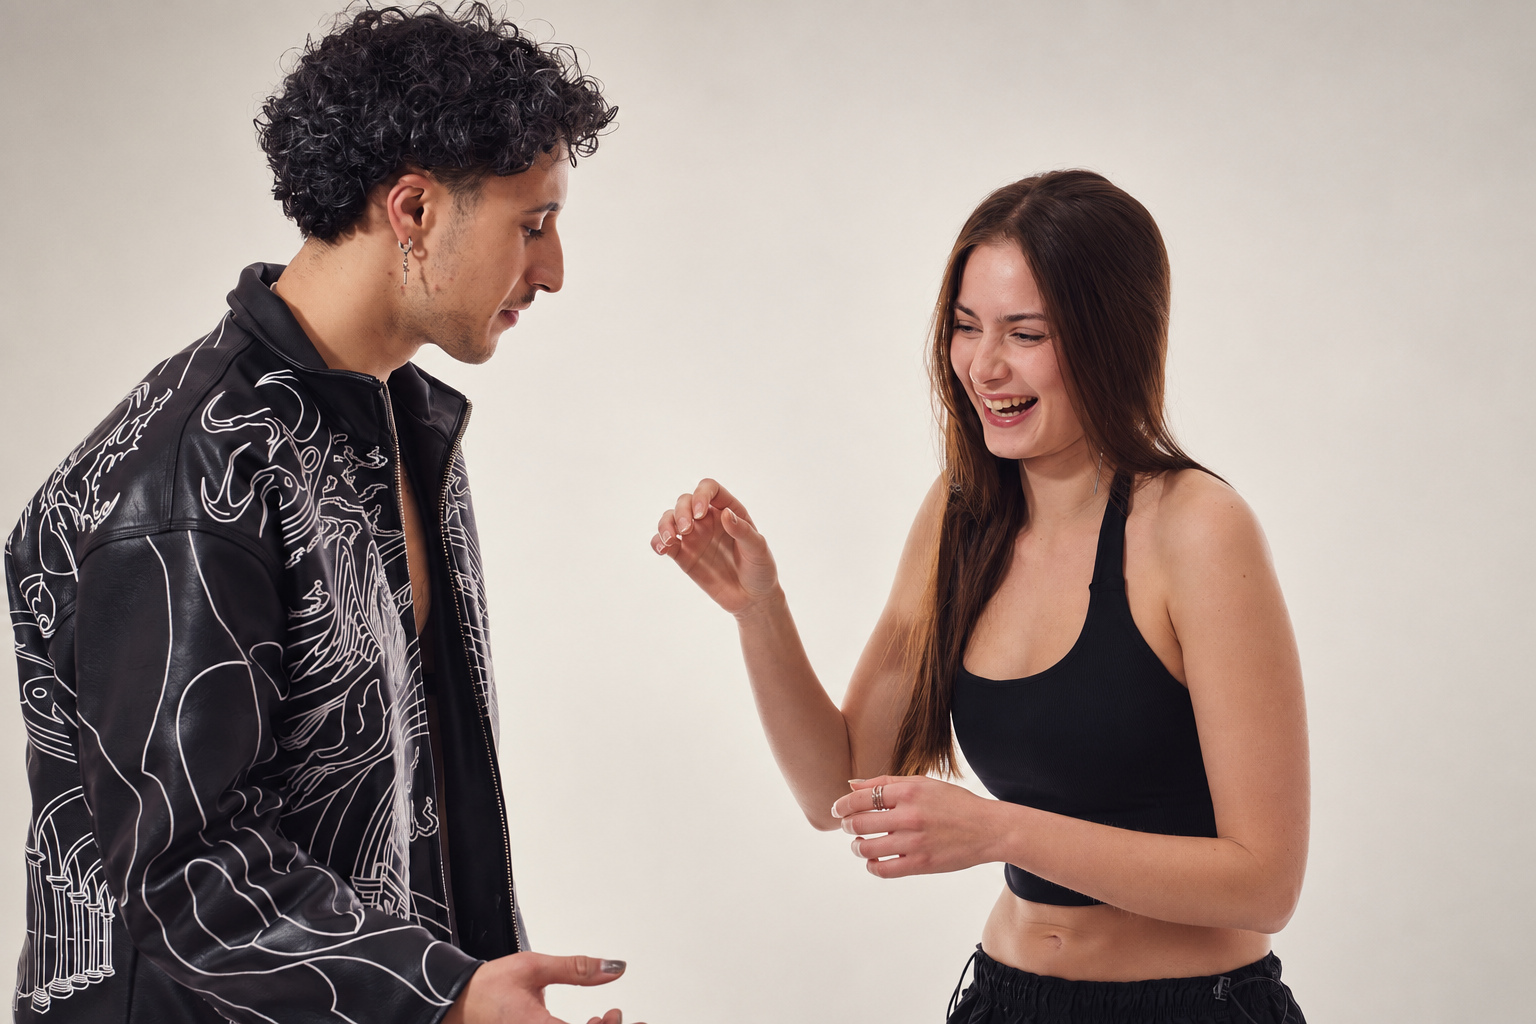
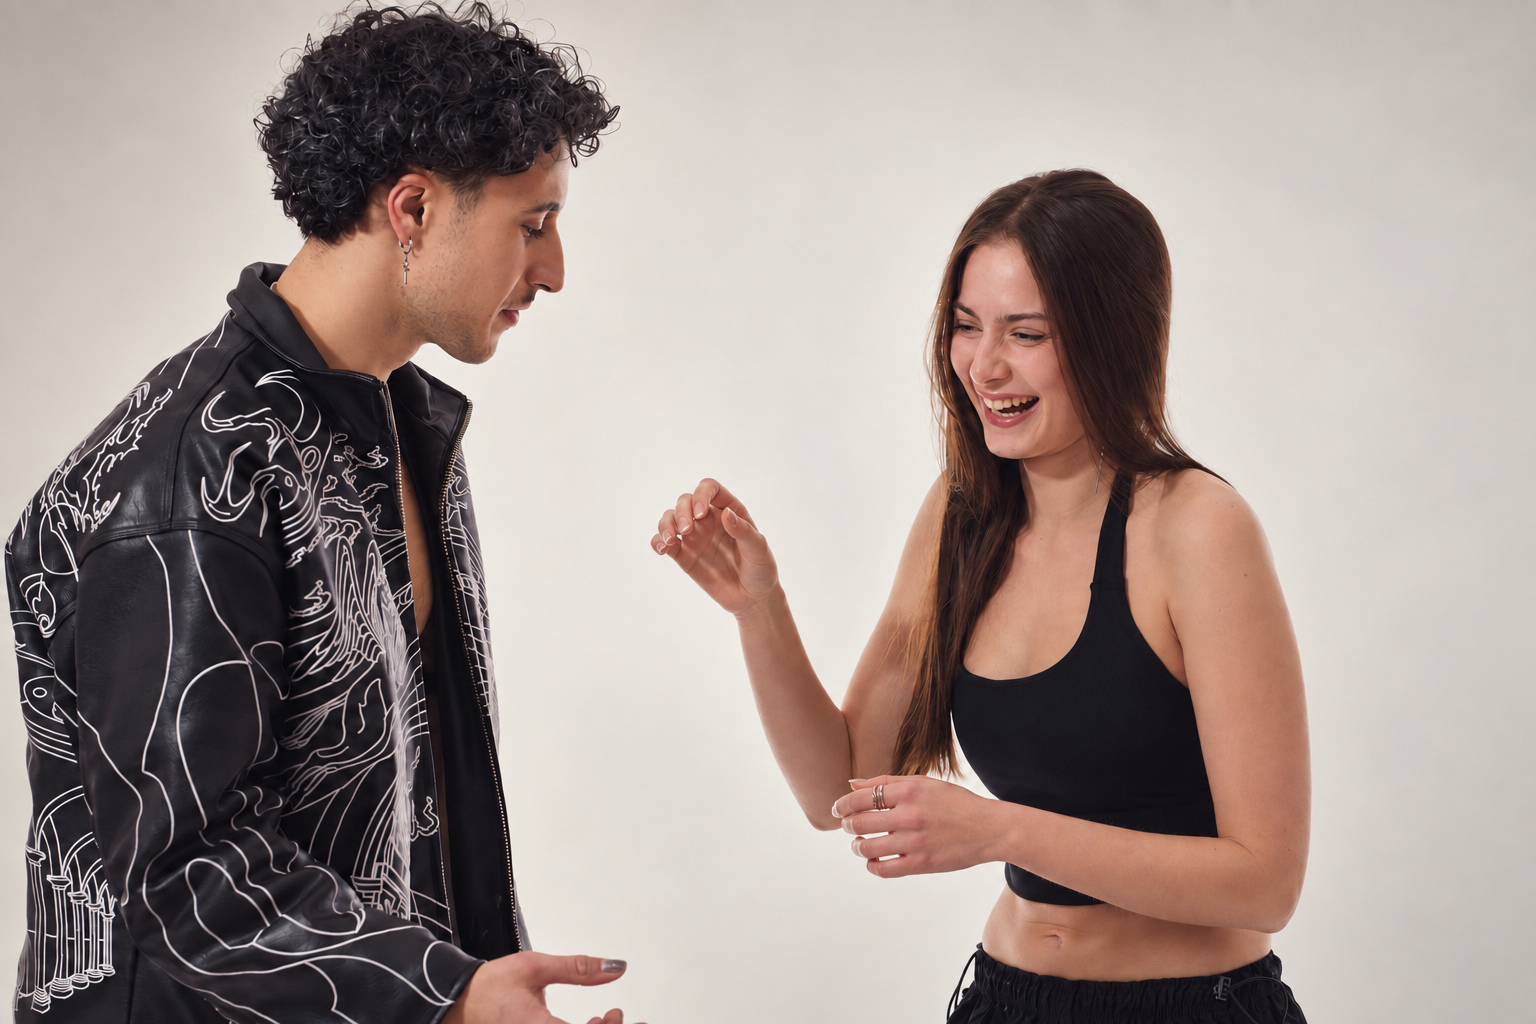
Correct skin blemishes and add three violet backdrop previews

diff --git a/index.html b/index.html
@@ -7,9 +7,9 @@
   <meta name="robots" content="noindex, nofollow">
   <title>Axelle — La sélection</title>
   <meta name="description" content="Une galerie pour comparer les photos originales et leurs retouches, et télécharger sa sélection.">
-  <link rel="stylesheet" href="styles.css?v=3">
-  <script src="photos.js?v=3" defer></script>
-  <script src="app.js?v=3" defer></script>
+  <link rel="stylesheet" href="styles.css?v=4">
+  <script src="photos.js?v=4" defer></script>
+  <script src="app.js?v=4" defer></script>
 </head>
 <body>
   <header class="header"><a class="wordmark" href="#">AXELLE<span>LA SÉLECTION</span></a><span class="edition">PHOTOGRAPHIES · FÉLIX BARJOU</span></header>
@@ -21,12 +21,13 @@
     </section>
     <nav class="downloads" aria-label="Télécharger les archives"><a class="button primary" href="https://github.com/Faresclt/galerie-axelle/releases/download/photos-v1/axelle-74-originaux.zip">↓ Les 74 originaux · ZIP</a><a class="button" id="edited-archive" href="https://github.com/Faresclt/galerie-axelle/releases/download/photos-v1/axelle-retouches-jpeg.zip">↓ Les 65 retouches légères · ZIP</a></nav>
     <nav class="downloads" aria-label="Télécharger les retouches en profondeur"><a class="button" id="deep-archive" hidden href="https://github.com/Faresclt/galerie-axelle/releases/download/photos-v1/axelle-retouches-profondeur.zip">↓ Retouches en profondeur · ZIP</a></nav>
+    <p class="processing-note">Nouveau : peau corrigée sur six portraits. Trois essais avec un fond violet sont disponibles dans le filtre « Essais fond violet », avec leur fond clair à côté. <a href="https://github.com/Faresclt/galerie-axelle/releases/download/photos-v1/axelle-essais-violets.zip">Télécharger les trois essais · ZIP</a></p>
     <p class="processing-note" id="processing-note">Les originaux et les retouches légères sont conservés.</p>
     <p class="mobile-compare-hint">Glisse les photos vers la gauche pour voir la troisième version ↔</p>
     <section class="collection" aria-label="Collection de photographies">
       <div class="toolbar" id="toolbar" hidden>
         <label class="search-label"><span class="sr-only">Rechercher une photo</span><input id="search" type="search" placeholder="Rechercher une photo…" autocomplete="off"></label>
-        <label class="filter-label"><span class="sr-only">Filtrer la collection</span><select id="filter"><option value="all">Toutes les photos</option><option value="ready">Retouche légère</option><option value="deep">En profondeur</option></select></label>
+        <label class="filter-label"><span class="sr-only">Filtrer la collection</span><select id="filter"><option value="all">Toutes les photos</option><option value="ready">Retouche légère</option><option value="deep">En profondeur</option><option value="purple">Essais fond violet</option></select></label>
         <span id="result-count" role="status"></span>
       </div>
       <div class="empty" id="empty"><span class="empty-mark" aria-hidden="true">✳</span><h2>La sélection arrive ici.</h2><p>La galerie source n’est pas accessible pour le moment.<br>Les photos s’afficheront après leur récupération.</p><div class="empty-legend"><span>01 / ORIGINAL</span><span>02 / RETOUCHE</span></div></div>
@@ -38,7 +39,7 @@
   <footer><span>AXELLE / LA SÉLECTION</span><span>Trois versions · Téléchargements individuels</span></footer>
   <dialog id="viewer" aria-labelledby="viewer-title">
     <div class="viewer-header"><h2 id="viewer-title"></h2><button id="close" class="close" aria-label="Fermer">×</button></div>
-    <div class="viewer-tabs" role="group" aria-label="Version affichée"><button id="show-original" aria-pressed="true">Original</button><button id="show-edited" aria-pressed="false">Retouche légère</button><button id="show-deep" aria-pressed="false">Retouche en profondeur</button></div>
+    <div class="viewer-tabs" role="group" aria-label="Version affichée"><button id="show-original" aria-pressed="true">Original</button><button id="show-edited" aria-pressed="false">Retouche légère</button><button id="show-deep" aria-pressed="false">Retouche en profondeur</button><button id="show-purple" aria-pressed="false" hidden>Essai fond violet</button></div>
     <div class="viewer-stage"><img id="viewer-image" alt=""></div>
     <div class="viewer-actions"><a id="download" class="button primary" download>Télécharger</a><button id="share" class="button">Enregistrer / partager</button><a id="open-image" class="text-link" target="_blank" rel="noopener">Ouvrir le fichier ↗</a></div>
     <p id="share-status" class="share-status" role="status"></p>

diff --git a/app.js b/app.js
@@ -4,13 +4,14 @@ const el = id => document.getElementById(id);
 const dialog = el('viewer');
 let currentPhoto = null;
 let currentVersion = 'original';
-const versionNames = { original: 'Original', edited: 'Retouche légère', deep: 'Retouche en profondeur' };
+const versionNames = { original: 'Original', edited: 'Retouche légère', deep: 'Retouche en profondeur', purple: 'Essai fond violet' };
 
 function imagePath(src) {
   if (typeof src !== 'string') throw new Error('Chemin image manquant');
   const parsed = new URL(src, location.href);
   if (!['http:', 'https:', 'file:'].includes(parsed.protocol)) throw new Error('Format de lien refusé');
   if (parsed.origin !== location.origin) throw new Error('Les images doivent être hébergées avec la galerie');
+  parsed.searchParams.set('v', '4');
   return parsed.href;
 }
 
@@ -26,6 +27,7 @@ function setVersion(version) {
   el('show-original').setAttribute('aria-pressed', String(version === 'original'));
   el('show-edited').setAttribute('aria-pressed', String(version === 'edited'));
   el('show-deep').setAttribute('aria-pressed', String(version === 'deep'));
+  el('show-purple').setAttribute('aria-pressed', String(version === 'purple'));
   el('share-status').textContent = '';
 }
 
@@ -34,6 +36,7 @@ function openPhoto(photo, version) {
   el('viewer-title').textContent = photo.title;
   el('show-edited').disabled = !photo.edited;
   el('show-deep').disabled = !photo.deep;
+  el('show-purple').hidden = !photo.purple;
   setVersion(version);
   dialog.showModal();
 }
@@ -63,7 +66,7 @@ function figure(photo, version) {
   }
   const caption = document.createElement('figcaption');
   const label = document.createElement('span');
-  label.textContent = `${{ original: '01', edited: '02', deep: '03' }[version]} / ${versionNames[version].toLocaleUpperCase('fr')}`;
+  label.textContent = `${{ original: '01', edited: '02', deep: '03', purple: '04' }[version]} / ${versionNames[version].toLocaleUpperCase('fr')}`;
   caption.append(label);
   if (asset) {
     const link = document.createElement('a');
@@ -79,7 +82,7 @@ function figure(photo, version) {
 
 function render() {
   const query = el('search').value.trim().toLocaleLowerCase('fr');
-  const visible = photos.filter(photo => `${photo.id} ${photo.title}`.toLocaleLowerCase('fr').includes(query) && (el('filter').value !== 'ready' || photo.edited) && (el('filter').value !== 'deep' || photo.deep));
+  const visible = photos.filter(photo => `${photo.id} ${photo.title}`.toLocaleLowerCase('fr').includes(query) && (el('filter').value !== 'ready' || photo.edited) && (el('filter').value !== 'deep' || photo.deep) && (el('filter').value !== 'purple' || photo.purple));
   const fragment = document.createDocumentFragment();
   for (const photo of visible) {
     const card = document.createElement('article');
@@ -95,6 +98,7 @@ function render() {
     pair.className = 'pair';
     pair.style.setProperty('--photo-ratio', photo.orientation === 'P' ? '2 / 3' : '3 / 2');
     pair.append(figure(photo, 'original'), figure(photo, 'edited'), figure(photo, 'deep'));
+    if (photo.purple) { pair.append(figure(photo, 'purple')); pair.classList.add('with-purple'); }
     card.append(top, pair);
     fragment.append(card);
   }
@@ -114,6 +118,8 @@ dialog.addEventListener('click', event => {
 el('show-original').addEventListener('click', () => setVersion('original'));
 el('show-edited').addEventListener('click', () => setVersion('edited'));
 el('show-deep').addEventListener('click', () => setVersion('deep'));
+el('show-purple').addEventListener('click', () => setVersion('purple'));
+if (location.hash === '#violet') el('filter').value = 'purple';
 el('share').addEventListener('click', async () => {
   const asset = currentPhoto[currentVersion];
   if (!navigator.share || !navigator.canShare) {

diff --git a/styles.css b/styles.css
@@ -6,4 +6,5 @@ dialog{border:0;background:var(--paper);color:var(--ink);padding:20px 26px;width
 .downloads{display:flex;flex-wrap:wrap;gap:10px;margin:0 0 16px}.pending{text-align:center;padding:12px}.processing-note{color:var(--muted);font-size:12px;margin:0 0 28px;max-width:680px}
 .grid{grid-template-columns:1fr}.pair{grid-template-columns:repeat(3,minmax(0,1fr));gap:14px}.total{max-width:330px;text-align:right;line-height:1.9}.viewer-tabs{flex-wrap:wrap}.mobile-compare-hint{display:none}
 @media(max-width:760px){.pair{grid-template-columns:repeat(3,minmax(155px,1fr));gap:10px;overflow-x:auto;padding-bottom:10px;scroll-snap-type:x proximity}.photo{scroll-snap-align:start}.photo figcaption{font-size:8px;letter-spacing:.4px;align-items:start}.photo figcaption span{padding-top:7px}.viewer-tabs button{padding:8px;font-size:11px}.total{text-align:left;max-width:none}.mobile-compare-hint{display:block;font-size:11px;color:var(--muted);margin:0 0 15px}}
+.pair.with-purple{grid-template-columns:repeat(4,minmax(0,1fr))}@media(max-width:760px){.pair.with-purple{grid-template-columns:repeat(4,minmax(155px,1fr))}}
 @media(prefers-reduced-motion:reduce){*{transition:none!important}}

diff --git a/photos.js b/photos.js
@@ -1089,7 +1089,11 @@ window.AXELLE_PHOTOS = [
       "src": "photos/deep/DSC05305-profondeur.jpg",
       "filename": "DSC05305-profondeur.jpg"
     },
-    "deepStatus": "ready"
+    "deepStatus": "ready",
+    "purple": {
+      "src": "photos/purple/DSC05305-violet.jpg",
+      "filename": "DSC05305-violet.jpg"
+    }
   },
   {
     "id": 61,
@@ -1108,7 +1112,11 @@ window.AXELLE_PHOTOS = [
       "src": "photos/deep/DSC05300-profondeur.jpg",
       "filename": "DSC05300-profondeur.jpg"
     },
-    "deepStatus": "ready"
+    "deepStatus": "ready",
+    "purple": {
+      "src": "photos/purple/DSC05300-violet.jpg",
+      "filename": "DSC05300-violet.jpg"
+    }
   },
   {
     "id": 62,
@@ -1146,7 +1154,11 @@ window.AXELLE_PHOTOS = [
       "src": "photos/deep/DSC05291-profondeur.jpg",
       "filename": "DSC05291-profondeur.jpg"
     },
-    "deepStatus": "ready"
+    "deepStatus": "ready",
+    "purple": {
+      "src": "photos/purple/DSC05291-violet.jpg",
+      "filename": "DSC05291-violet.jpg"
+    }
   },
   {
     "id": 64,

diff --git a/README.md b/README.md
@@ -12,6 +12,12 @@ Source vérifiée le 22 septembre 2026 : `https://www.felixbarjou.com/selection/
 - Les données proviennent de `photos.js`. Aucun identifiant de connexion ne doit y figurer.
 - Fichiers JPEG pour la compatibilité avec Photos et Safari sur iPhone. Les retouches sont réalisées avec l’outil d’image intégré de ChatGPT, puis exportées en JPEG. Les PNG issus de l’outil sont conservés séparément.
 
+## Corrections de peau et essais violets
+
+Six retouches en profondeur ont été corrigées pour retirer les boutons encore visibles : DSC05300, DSC05298, DSC05305, DSC05377, DSC05291 et DSC05288. Trois variantes supplémentaires sur fond violet inspiré de la référence fournie sont proposées pour DSC05300, DSC05305 et DSC05291. Le filtre « Essais fond violet » permet de les comparer et télécharger. Les versions sur fond clair restent accessibles.
+
+[Les trois essais violets en JPEG ZIP](https://github.com/Faresclt/galerie-axelle/releases/download/photos-v1/axelle-essais-violets.zip).
+
 ## Téléchargements et limites
 
 - [Les 74 originaux en ZIP](https://github.com/Faresclt/galerie-axelle/releases/download/photos-v1/axelle-74-originaux.zip).
